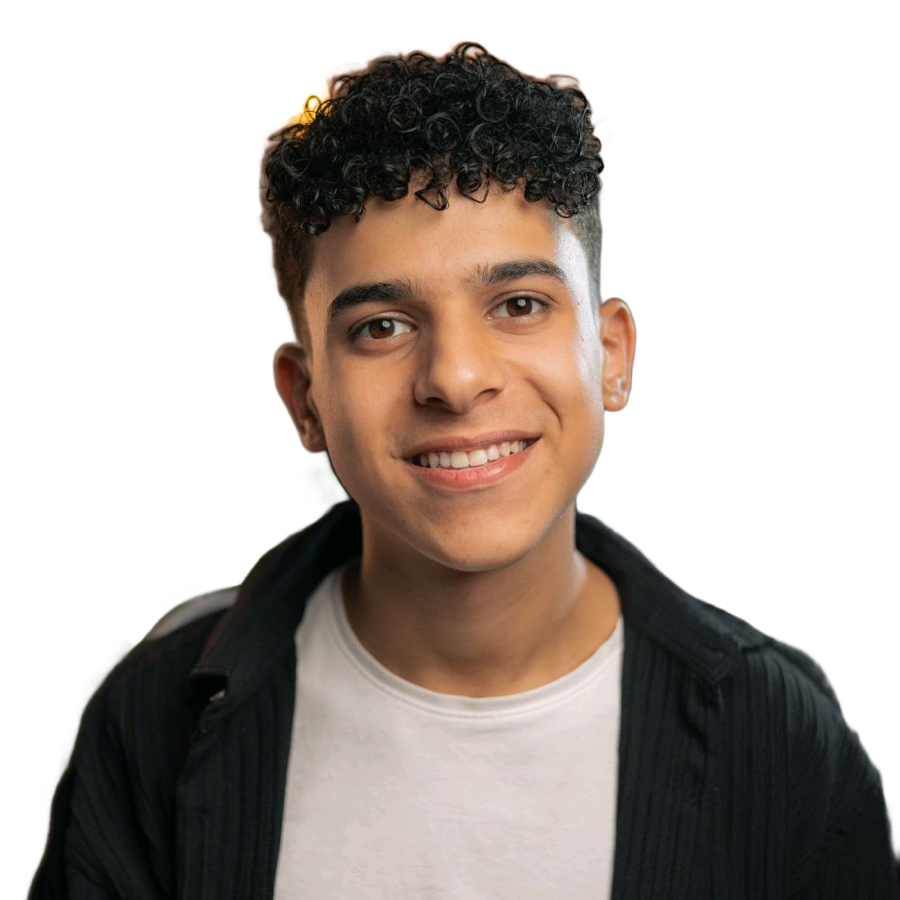
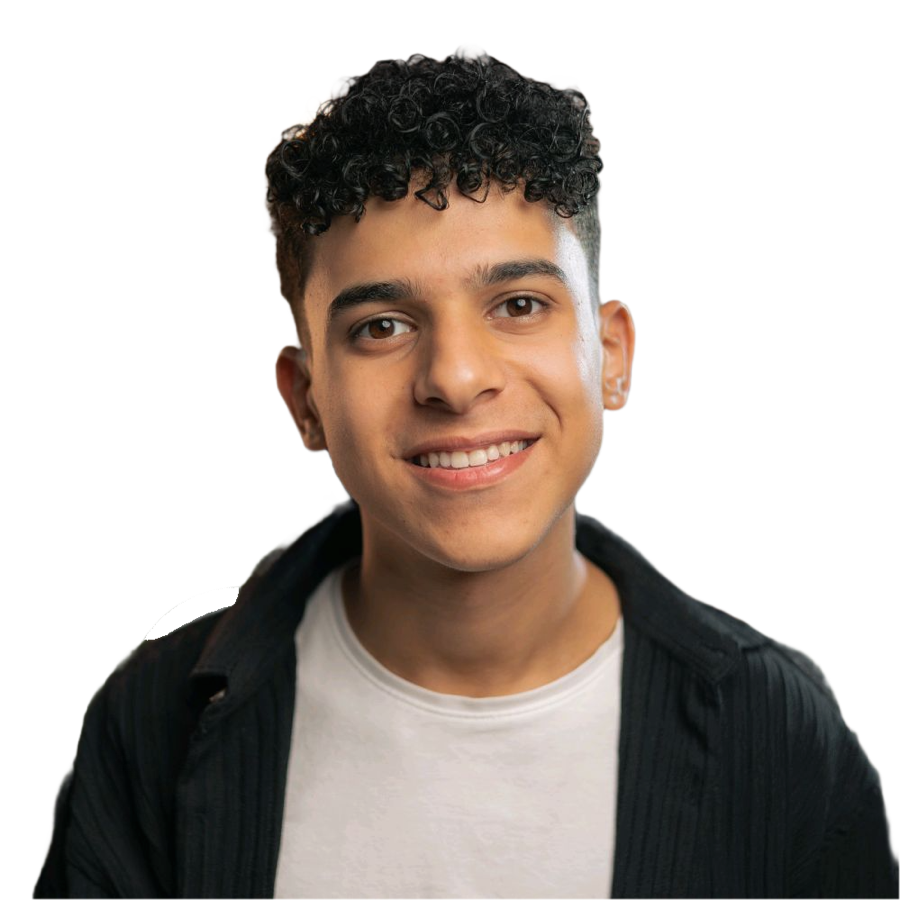
Cleaner cut-out and feather-line animation behind the portrait

diff --git a/index.html b/index.html
@@ -131,13 +131,13 @@ body::before { content: ""; position: fixed; inset: 0 0 auto; height: env(safe-a
   background-size: 28px 28px;
   -webkit-mask: radial-gradient(80% 70% at 50% 40%, #000, transparent); mask: radial-gradient(80% 70% at 50% 40%, #000, transparent);
 }
-.tape { position: absolute; left: -25%; width: 150%; height: 42px; display: flex; align-items: center; overflow: hidden; direction: ltr; }
-.tape-a { top: 18%; rotate: -8deg; z-index: 2; background: linear-gradient(90deg, var(--amber-deep), var(--amber) 50%, #ffd08a); color: var(--amber-ink); box-shadow: 0 12px 30px -10px rgba(255, 140, 30, .55); }
-.tape-b { top: 40%; rotate: 6deg; z-index: 1; background: #0c0a08; color: var(--fg); border-block: 1px solid color-mix(in srgb, var(--amber) 40%, transparent); }
-.tape-track { display: flex; width: max-content; white-space: nowrap; animation: slide 24s linear infinite; font: 800 15px/1 var(--font-display); letter-spacing: .08em; text-transform: uppercase; }
-.tape-b .tape-track { animation-duration: 30s; animation-direction: reverse; font: 500 13px/1 var(--font-mono); letter-spacing: .12em; }
-.tape-track span { padding-inline: 14px; }
-.tape-track i { font-style: normal; opacity: .7; }
+.feather { position: absolute; inset: -6% -4% 0; width: 108%; height: 106%; filter: drop-shadow(0 0 8px rgba(255, 160, 50, .6)); transform: translate3d(calc(var(--px) * -10px), calc(var(--py) * -8px), 0); transition: transform .4s var(--ease); }
+.fl-base { animation: sway 9s ease-in-out infinite; transform-origin: 50% 50%; }
+.fl-quill { opacity: .9; animation: sway 9s ease-in-out infinite; transform-origin: 50% 50%; }
+.fl-shine path { stroke-dasharray: 70 530; stroke-dashoffset: 600; opacity: .9; animation: flow 5.5s cubic-bezier(.45, 0, .25, 1) infinite; animation-delay: calc(var(--d) * -.31s); }
+.fl-shine { animation: sway 9s ease-in-out infinite; transform-origin: 50% 50%; mix-blend-mode: screen; }
+@keyframes flow { to { stroke-dashoffset: 0; } }
+@keyframes sway { 50% { transform: translateY(-6px) rotate(-1.2deg); } }
 .p-cut {
   position: absolute; left: 1px; bottom: 1px; width: calc(100% - 2px); height: auto; z-index: 3; border-radius: 0 0 27px 27px;
   filter: drop-shadow(0 24px 30px rgba(0, 0, 0, .55)) drop-shadow(0 0 1px rgba(255, 210, 150, .35));
@@ -473,6 +473,8 @@ footer .wrap { display: flex; flex-wrap: wrap; justify-content: space-between; g
   .p-chip { -webkit-backdrop-filter: none; backdrop-filter: none; background: #1d1913; box-shadow: none; }
   .p-card { box-shadow: none; }
   .p-cut { filter: none; }
+  .feather { filter: none; }
+  .fl-shine { display: none; }
   .ribbon .wrap, .metrics, .tops { grid-template-columns: repeat(4, minmax(0, 1fr)); }
   .why, .platforms, .aud, .services { grid-template-columns: repeat(3, minmax(0, 1fr)); }
   .gears, .tools { grid-template-columns: repeat(3, minmax(0, 1fr)); }
@@ -538,8 +540,69 @@ footer .wrap { display: flex; flex-wrap: wrap; justify-content: space-between; g
       <figure class="portrait" id="portrait">
         <div class="p-glow" aria-hidden="true"></div>
         <div class="p-card" aria-hidden="true">
-          <div class="tape tape-a"><div class="tape-track"><span>AI Tools</span><i>✦</i><span>Apps</span><i>✦</i><span>Phone Reviews</span><i>✦</i><span>Tutorials</span><i>✦</i> <span>AI Tools</span><i>✦</i><span>Apps</span><i>✦</i><span>Phone Reviews</span><i>✦</i><span>Tutorials</span><i>✦</i> <span>AI Tools</span><i>✦</i><span>Apps</span><i>✦</i><span>Phone Reviews</span><i>✦</i><span>Tutorials</span><i>✦</i> <span>AI Tools</span><i>✦</i><span>Apps</span><i>✦</i><span>Phone Reviews</span><i>✦</i><span>Tutorials</span><i>✦</i></div></div>
-          <div class="tape tape-b"><div class="tape-track"><span>@elalamy_ph</span><i>•</i><span>Media Kit 2026</span><i>•</i><span>486K+ followers</span><i>•</i> <span>@elalamy_ph</span><i>•</i><span>Media Kit 2026</span><i>•</i><span>486K+ followers</span><i>•</i> <span>@elalamy_ph</span><i>•</i><span>Media Kit 2026</span><i>•</i><span>486K+ followers</span><i>•</i> <span>@elalamy_ph</span><i>•</i><span>Media Kit 2026</span><i>•</i><span>486K+ followers</span><i>•</i></div></div>
+          <svg class="feather" viewBox="0 0 400 360" preserveAspectRatio="xMidYMid slice" aria-hidden="true">
+            <defs>
+              <linearGradient id="fg" x1="0" y1="0" x2="1" y2="0">
+                <stop offset="0" stop-color="#ffb547" stop-opacity="0"/>
+                <stop offset=".25" stop-color="#ff8a1f"/>
+                <stop offset=".6" stop-color="#ffd08a"/>
+                <stop offset="1" stop-color="#ffb547" stop-opacity="0"/>
+              </linearGradient>
+            </defs>
+            <g class="fl-base" fill="none" stroke="url(#fg)" stroke-linecap="round">
+            <path d="M-40.0 214.7 C80.0 230.8 300.0 -140.8 440.0 83.2" stroke-width="0.74" opacity="0.37"/>
+            <path d="M-40.0 216.9 C80.0 240.2 300.0 -130.2 440.0 86.4" stroke-width="0.82" opacity="0.42"/>
+            <path d="M-40.0 219.1 C80.0 249.8 300.0 -119.8 440.0 89.6" stroke-width="0.91" opacity="0.47"/>
+            <path d="M-40.0 221.3 C80.0 259.2 300.0 -109.2 440.0 92.8" stroke-width="0.99" opacity="0.52"/>
+            <path d="M-40.0 223.5 C80.0 268.8 300.0 -98.8 440.0 96.0" stroke-width="1.07" opacity="0.57"/>
+            <path d="M-40.0 225.7 C80.0 278.2 300.0 -88.2 440.0 99.2" stroke-width="1.16" opacity="0.62"/>
+            <path d="M-40.0 227.9 C80.0 287.8 300.0 -77.8 440.0 102.4" stroke-width="1.24" opacity="0.68"/>
+            <path d="M-40.0 230.1 C80.0 297.2 300.0 -67.2 440.0 105.6" stroke-width="1.32" opacity="0.72"/>
+            <path d="M-40.0 232.3 C80.0 306.8 300.0 -56.8 440.0 108.8" stroke-width="1.41" opacity="0.77"/>
+            <path d="M-40.0 234.5 C80.0 316.2 300.0 -46.2 440.0 112.0" stroke-width="1.49" opacity="0.82"/>
+            <path d="M-40.0 236.7 C80.0 325.8 300.0 -35.8 440.0 115.2" stroke-width="1.57" opacity="0.88"/>
+            <path d="M-40.0 238.9 C80.0 335.2 300.0 -25.2 440.0 118.4" stroke-width="1.66" opacity="0.92"/>
+            <path d="M-40.0 241.1 C80.0 344.8 300.0 -14.8 440.0 121.6" stroke-width="1.66" opacity="0.92"/>
+            <path d="M-40.0 243.3 C80.0 354.2 300.0 -4.2 440.0 124.8" stroke-width="1.57" opacity="0.88"/>
+            <path d="M-40.0 245.5 C80.0 363.8 300.0 6.2 440.0 128.0" stroke-width="1.49" opacity="0.82"/>
+            <path d="M-40.0 247.7 C80.0 373.2 300.0 16.8 440.0 131.2" stroke-width="1.41" opacity="0.77"/>
+            <path d="M-40.0 249.9 C80.0 382.8 300.0 27.2 440.0 134.4" stroke-width="1.32" opacity="0.72"/>
+            <path d="M-40.0 252.1 C80.0 392.2 300.0 37.8 440.0 137.6" stroke-width="1.24" opacity="0.68"/>
+            <path d="M-40.0 254.3 C80.0 401.8 300.0 48.2 440.0 140.8" stroke-width="1.16" opacity="0.62"/>
+            <path d="M-40.0 256.5 C80.0 411.2 300.0 58.8 440.0 144.0" stroke-width="1.07" opacity="0.57"/>
+            <path d="M-40.0 258.7 C80.0 420.8 300.0 69.2 440.0 147.2" stroke-width="0.99" opacity="0.52"/>
+            <path d="M-40.0 260.9 C80.0 430.2 300.0 79.8 440.0 150.4" stroke-width="0.91" opacity="0.47"/>
+            <path d="M-40.0 263.1 C80.0 439.8 300.0 90.2 440.0 153.6" stroke-width="0.82" opacity="0.42"/>
+            <path d="M-40.0 265.3 C80.0 449.2 300.0 100.8 440.0 156.8" stroke-width="0.74" opacity="0.37"/>
+            </g>
+            <g class="fl-shine" fill="none" stroke="#ffe2b0" stroke-linecap="round">
+            <path d="M-40.0 214.7 C80.0 230.8 300.0 -140.8 440.0 83.2" pathLength="600" style="--d:0" stroke-width="1.24"/>
+            <path d="M-40.0 216.9 C80.0 240.2 300.0 -130.2 440.0 86.4" pathLength="600" style="--d:1" stroke-width="1.32"/>
+            <path d="M-40.0 219.1 C80.0 249.8 300.0 -119.8 440.0 89.6" pathLength="600" style="--d:2" stroke-width="1.41"/>
+            <path d="M-40.0 221.3 C80.0 259.2 300.0 -109.2 440.0 92.8" pathLength="600" style="--d:3" stroke-width="1.49"/>
+            <path d="M-40.0 223.5 C80.0 268.8 300.0 -98.8 440.0 96.0" pathLength="600" style="--d:4" stroke-width="1.57"/>
+            <path d="M-40.0 225.7 C80.0 278.2 300.0 -88.2 440.0 99.2" pathLength="600" style="--d:5" stroke-width="1.66"/>
+            <path d="M-40.0 227.9 C80.0 287.8 300.0 -77.8 440.0 102.4" pathLength="600" style="--d:6" stroke-width="1.74"/>
+            <path d="M-40.0 230.1 C80.0 297.2 300.0 -67.2 440.0 105.6" pathLength="600" style="--d:7" stroke-width="1.82"/>
+            <path d="M-40.0 232.3 C80.0 306.8 300.0 -56.8 440.0 108.8" pathLength="600" style="--d:8" stroke-width="1.91"/>
+            <path d="M-40.0 234.5 C80.0 316.2 300.0 -46.2 440.0 112.0" pathLength="600" style="--d:9" stroke-width="1.99"/>
+            <path d="M-40.0 236.7 C80.0 325.8 300.0 -35.8 440.0 115.2" pathLength="600" style="--d:10" stroke-width="2.08"/>
+            <path d="M-40.0 238.9 C80.0 335.2 300.0 -25.2 440.0 118.4" pathLength="600" style="--d:11" stroke-width="2.16"/>
+            <path d="M-40.0 241.1 C80.0 344.8 300.0 -14.8 440.0 121.6" pathLength="600" style="--d:12" stroke-width="2.16"/>
+            <path d="M-40.0 243.3 C80.0 354.2 300.0 -4.2 440.0 124.8" pathLength="600" style="--d:13" stroke-width="2.08"/>
+            <path d="M-40.0 245.5 C80.0 363.8 300.0 6.2 440.0 128.0" pathLength="600" style="--d:14" stroke-width="1.99"/>
+            <path d="M-40.0 247.7 C80.0 373.2 300.0 16.8 440.0 131.2" pathLength="600" style="--d:15" stroke-width="1.91"/>
+            <path d="M-40.0 249.9 C80.0 382.8 300.0 27.2 440.0 134.4" pathLength="600" style="--d:16" stroke-width="1.82"/>
+            <path d="M-40.0 252.1 C80.0 392.2 300.0 37.8 440.0 137.6" pathLength="600" style="--d:17" stroke-width="1.74"/>
+            <path d="M-40.0 254.3 C80.0 401.8 300.0 48.2 440.0 140.8" pathLength="600" style="--d:18" stroke-width="1.66"/>
+            <path d="M-40.0 256.5 C80.0 411.2 300.0 58.8 440.0 144.0" pathLength="600" style="--d:19" stroke-width="1.57"/>
+            <path d="M-40.0 258.7 C80.0 420.8 300.0 69.2 440.0 147.2" pathLength="600" style="--d:20" stroke-width="1.49"/>
+            <path d="M-40.0 260.9 C80.0 430.2 300.0 79.8 440.0 150.4" pathLength="600" style="--d:21" stroke-width="1.41"/>
+            <path d="M-40.0 263.1 C80.0 439.8 300.0 90.2 440.0 153.6" pathLength="600" style="--d:22" stroke-width="1.32"/>
+            <path d="M-40.0 265.3 C80.0 449.2 300.0 100.8 440.0 156.8" pathLength="600" style="--d:23" stroke-width="1.24"/>
+            </g>
+            <path class="fl-quill" d="M-40.0 240.0 C80.0 340.0 300.0 -20.0 440.0 120.0" fill="none" stroke="url(#fg)" stroke-width="2.2" stroke-linecap="round"/>
+          </svg>
         </div>
         <img class="p-cut" src="portrait.png" alt="محمود عثمان" width="900" height="900" fetchpriority="high">
         <div class="p-chip chip-a"><span class="ic"><svg viewBox="0 0 24 24" aria-hidden="true"><path d="M9 11a4 4 0 1 0 0-8 4 4 0 0 0 0 8zm0 2c-3.3 0-7 1.7-7 4.5V20h14v-2.5C16 14.7 12.3 13 9 13zm7.5-2a3.5 3.5 0 1 0-1-6.9 6 6 0 0 1 0 6.8c.3.1.6.1 1 .1zm1.4 2.1A5.8 5.8 0 0 1 20 17.5V20h2v-2.5c0-2.1-1.8-3.6-4.1-4.4z"/></svg></span><span><b>486K+</b><small data-i18n="chipA">متابع على 3 منصات</small></span></div>
